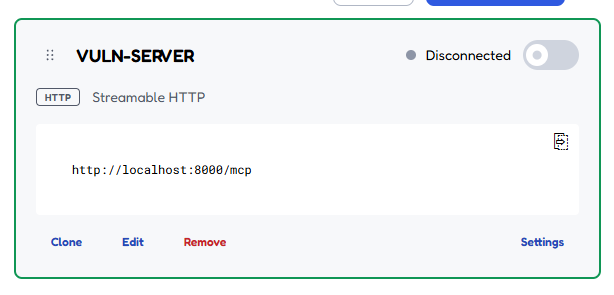
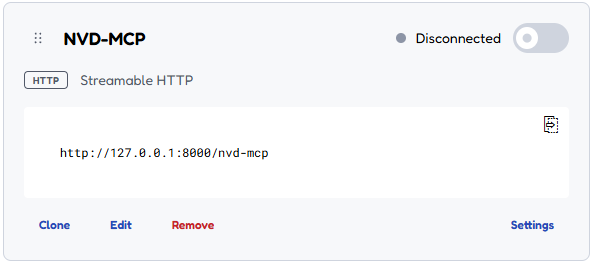
configuration externalized

diff --git a/src/vulnerability-mcp-server.py b/src/vulnerability-mcp-server.py
@@ -5,10 +5,6 @@ from fastmcp import FastMCP
 from tools.database_clients import DatabaseClient
 from models.vulnerability import Vulnerability
 
-
-
-
-
 mcp = FastMCP("Vulnerability Data Source")
 
 @mcp.tool()
@@ -91,6 +87,3 @@ def resolve_cpe(keyword: str, limit: int = 50) -> list:
     """
     data_fetcher = DatabaseClient("data/vulnerability.db")
     return data_fetcher.resolve_cpe(keyword, limit)
-
-if __name__ == "__main__":
-    mcp.run(transport="http", host="0.0.0.0", port=8001)

diff --git a/README.md b/README.md
@@ -50,19 +50,40 @@ vuln-db --init
 (CVE + EPSS data), plus the CPE dictionary and CPE-match feeds used by the
 `resolve_cpe`/`search_cves_by_cpe` tools. It's required on first run, is safe
 to rerun, and can take a while (the CPE-match feed alone is ~795MB
-compressed). See `AGENTS.md` for all `vuln-db` flags (e.g. `-f LOCAL` to sync
-from pre-downloaded files instead of hitting the network) and refreshing the
-database later (plain `vuln-db`, without `--init`).
+compressed).
 
 6) Launch the MCP server
 
 ```powershell
-python src/vulnerability-mcp-server.py
+fastmcp run
 ```
+
 
 The terminal should render: 
 
 ![SERVER START](pictures/launch-server.png)
+
+
+The default configuation is set by file `fastmcp.json`
+
+```json
+{
+  "$schema": "https://gofastmcp.com/public/schemas/fastmcp.json/v1.json",
+  "source": {
+    "path": "src/vulnerability-mcp-server.py",
+    "entrypoint": "mcp"
+  },
+  "deployment": {
+    "transport": "streamable-http",
+    "port":8000,
+    "path": "/nvd-mcp",
+    "log_level": "INFO"
+  }
+}
+```
+
+> [!TIP]
+> If you need to change it and update some configuration like port or deployment path, adapt following documentation to your updates.
 
 
 ## Test MCP server
@@ -82,11 +103,11 @@ Now a browser is opened and display MCP inspector
 
 Click on `Add Servers` and select `+ Add manually`
 
-Set VULN-SERVER as Server ID
+Set `NVD-MCP` as Server ID
 
 Select `streamable-http` as Transport
 
-Set URL with **http://localhost:8000/mcp** and click on Add
+Set URL with **http://localhost:8000/nvd-mcp** and click on Add
 
 A new server appears: 
 
